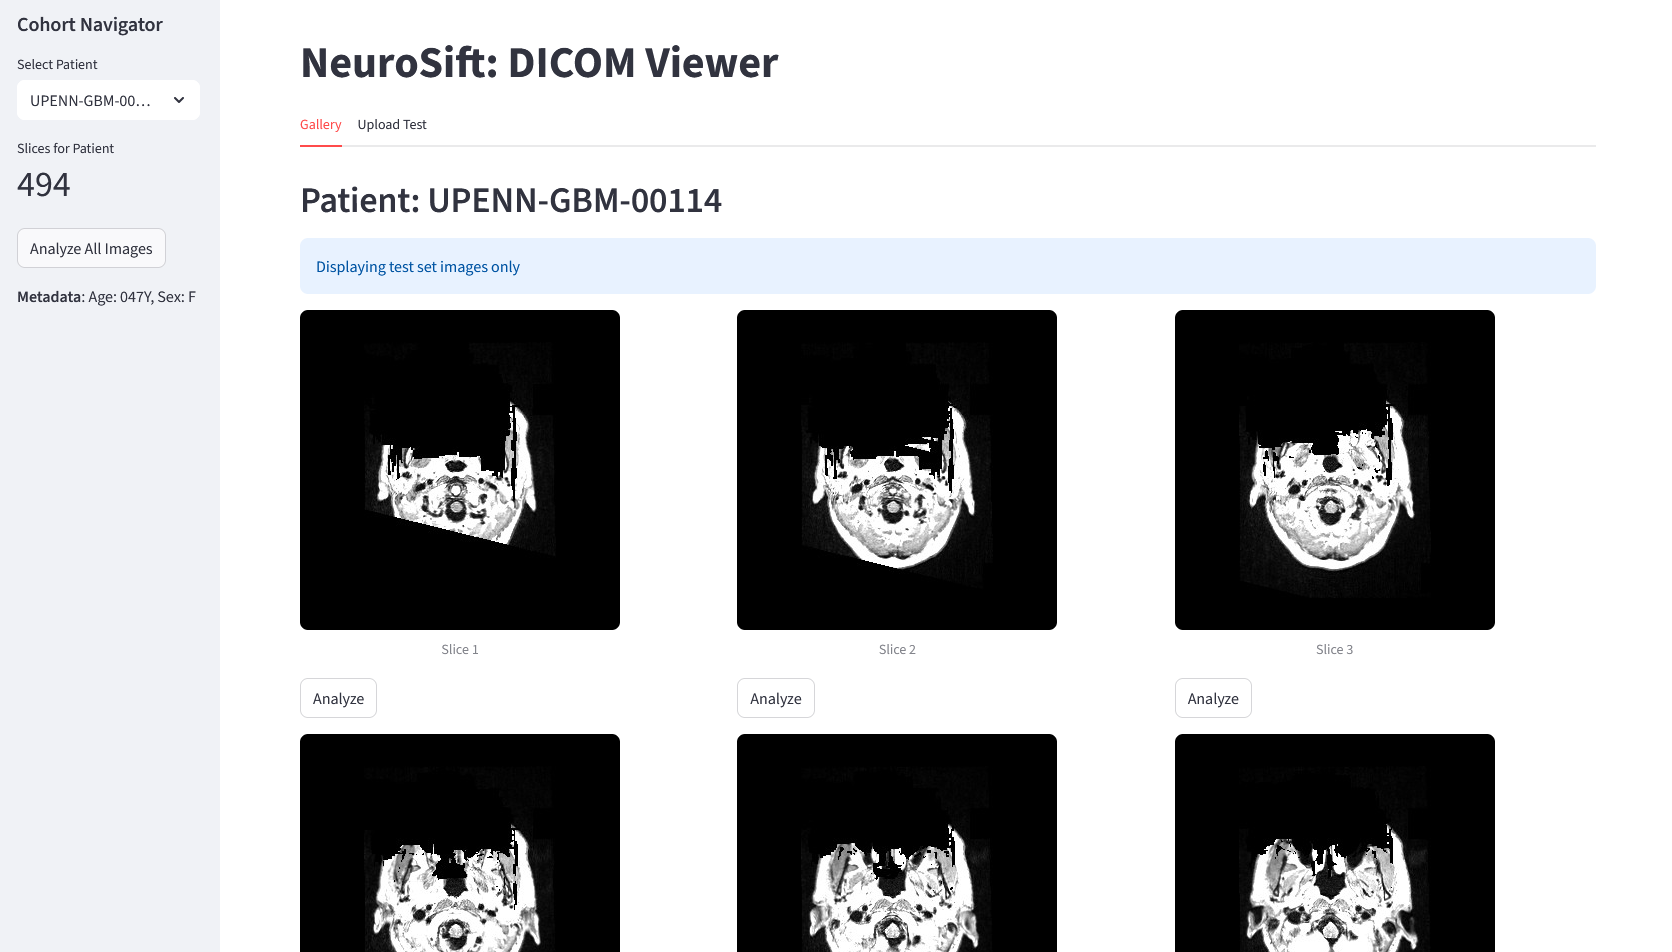
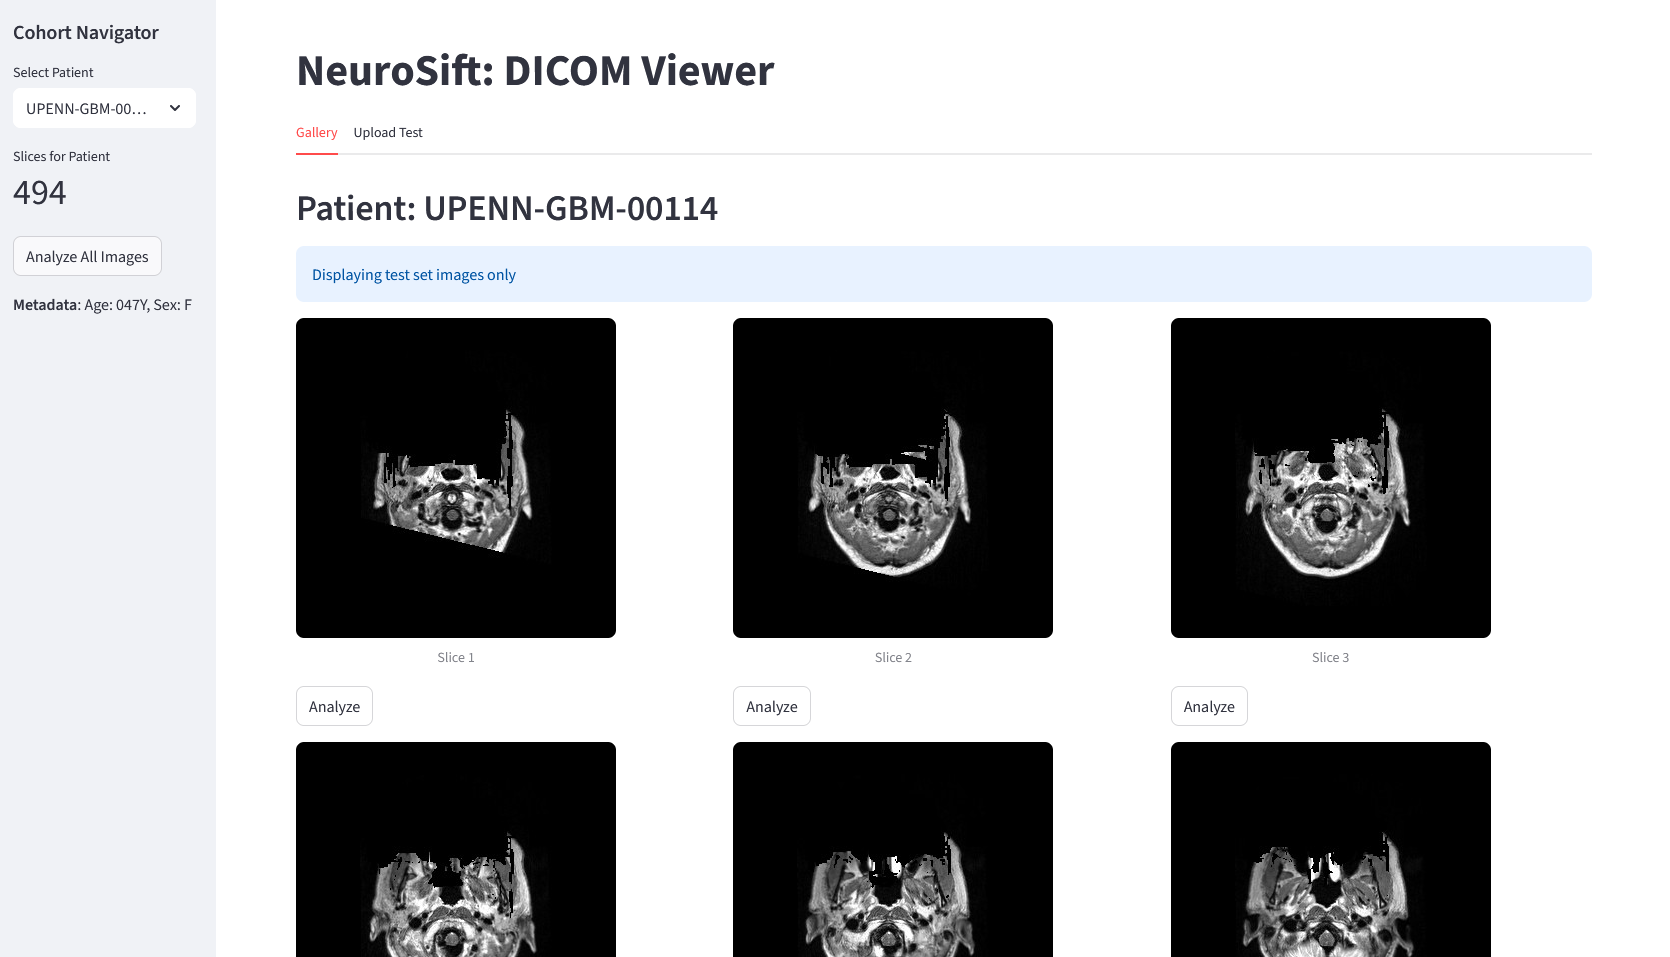
changed contrast

diff --git a/src/processing/dicom_processor.py b/src/processing/dicom_processor.py
@@ -16,17 +16,23 @@ class DicomProcessor:
         os.makedirs(self.processed_dir, exist_ok=True)
         self.store = MetadataStore()
 
-    def apply_window(self, image, center, width):
-        lower = center - (width / 2)
-        upper = center + (width / 2)
+    def apply_window(self, image, center=None, width=None):
+        # MRI robust normalization (Percentile scaling)
+        # Ignore zeros (background) for calculation
+        if np.max(image) == 0:
+            return image.astype(np.uint8)
+            
+        p1 = np.percentile(image[image > 0], 1)
+        p99 = np.percentile(image[image > 0], 99)
         
         # Clip
-        image = np.clip(image, lower, upper)
+        image = np.clip(image, p1, p99)
         
-        # Normalize
-        image = image - lower
-        image = image / width
+        # Min-Max Scaling to 0-255
+        image = image - p1
+        image = image / (p99 - p1 + 1e-8) # Avoid div/0
         image = (image * 255).astype(np.uint8)
+        
         return image
 
     def read_dicom(self, path):
